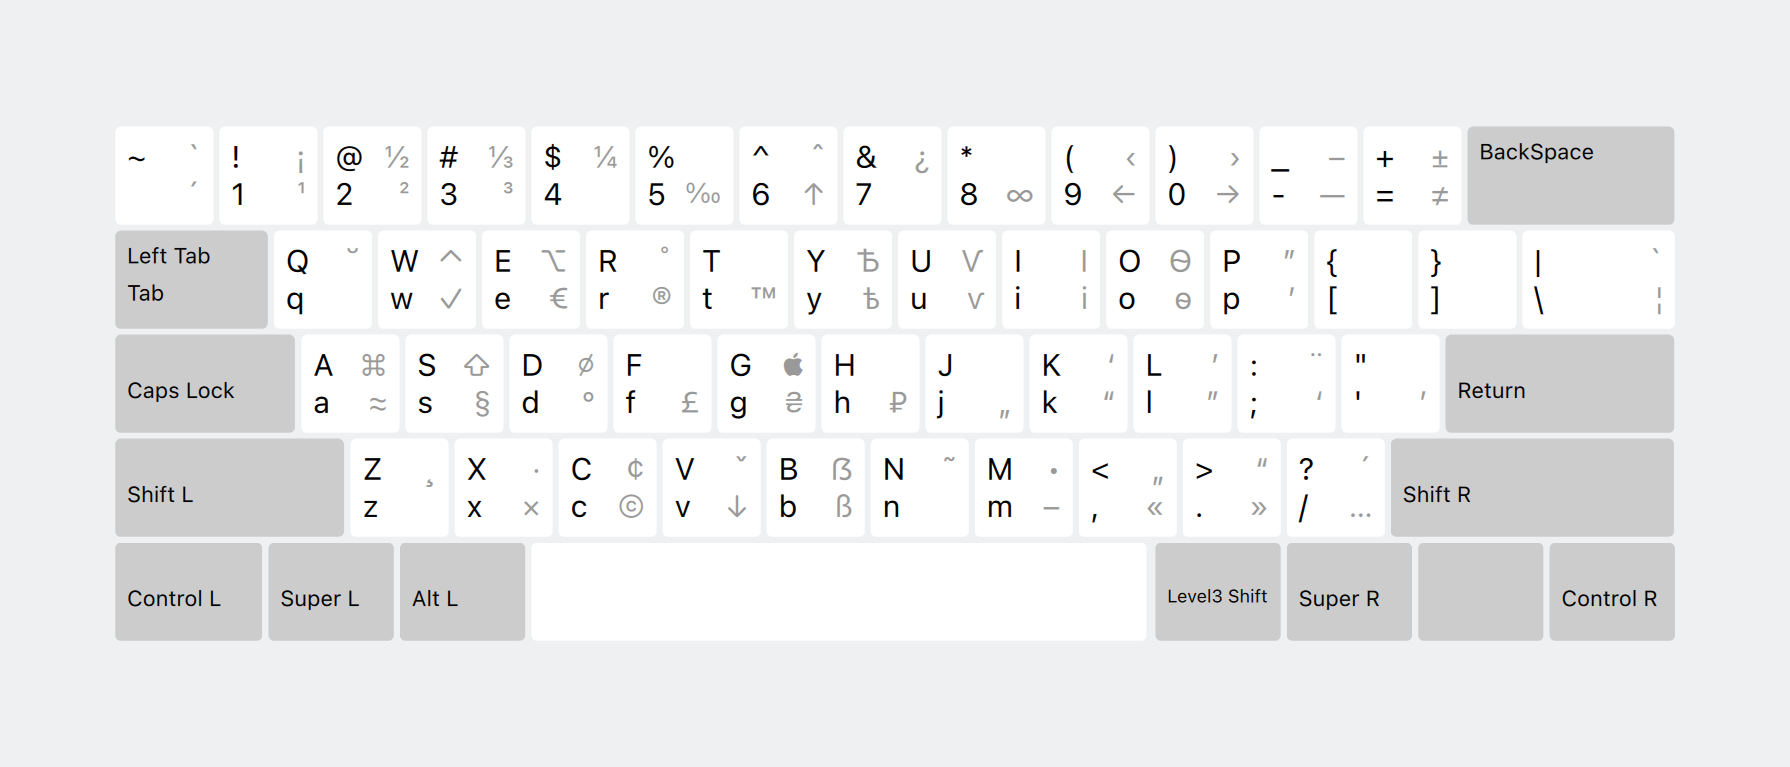
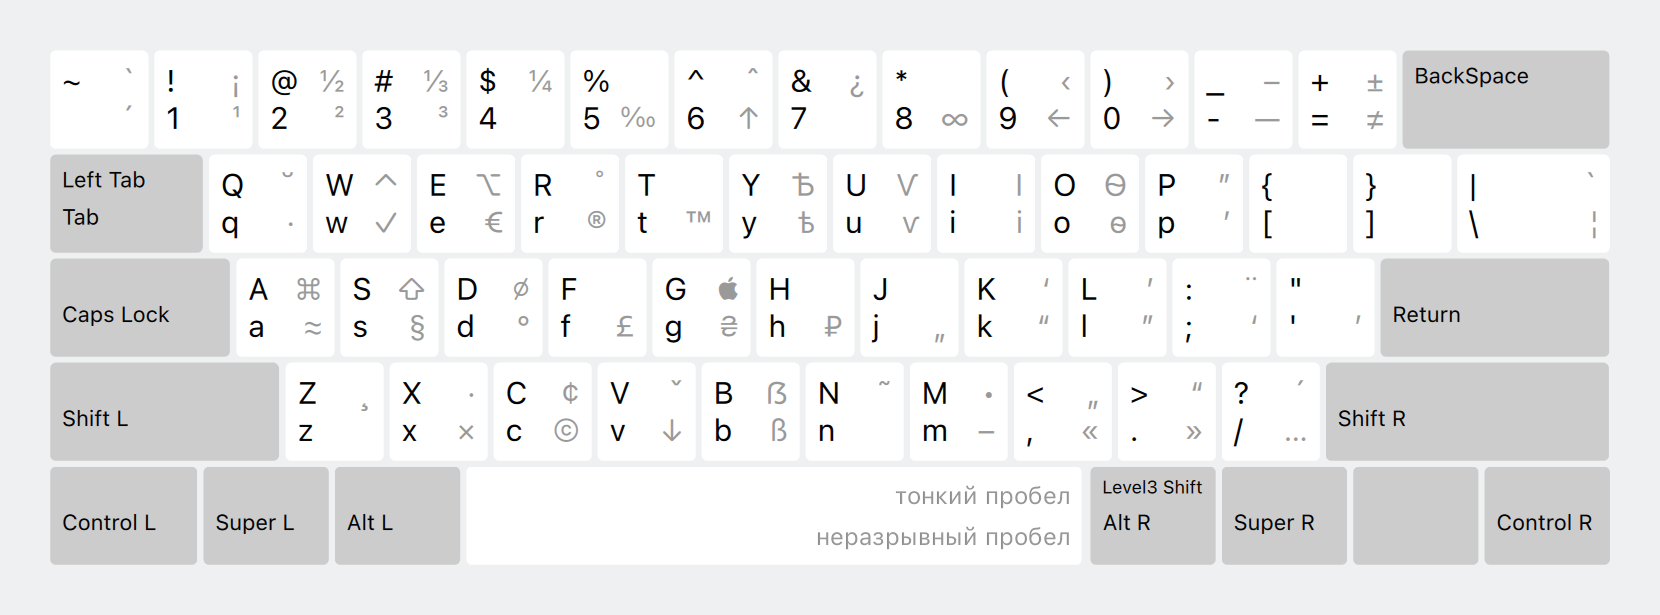
Added diff with original to readme

diff --git a/README.md b/README.md
@@ -1,5 +1,4 @@
-# Типографская раскладка Ильи Бирмана для Ubuntu
-
+# Типографская раскладка Ильи Бирмана для Linux
 Этот репозиторий содержит адаптацию русской и английской [типографской раскладки Ильи Бирмана](http://ilyabirman.ru/projects/typography-layout/) версии 3.7 для систем на базе Linux и X.org.
 
 Раскладки протестированы в KDE 6.3.3, а также в suckless dwm.
@@ -12,6 +11,13 @@
 Эта раскладка позволяет вводить полезные символы, используя правый <kbd>Alt</kbd> (называемый AltGr). Например, чтобы получить знак евро **€**, вам нужно нажать <kbd>AltGr</kbd>+<kbd>У</kbd> в русском варианте или <kbd>AltGr</kbd>+<kbd>E</kbd> в английском. Дополнительный ряд символов доступен при нажатии еще и Shift-а, например <kbd>AltGr</kbd>+<kbd>С</kbd> даст знак копирайта **©**, а <kbd>AltGr</kbd>+<kbd>Shift</kbd>+<kbd>С</kbd> даст знак цента **¢**.
 
 Как и оригинал, эта раскладка поддерживает ввод акцентов и ударений через «мёртвые клавиши», но процесс немного отличается от того, как это делается в Windows или на Маке. Например, для ввода буквы **ў**, нужно нажать и отпустить <kbd>AltGr</kbd>+<kbd>Shift</kbd>+<kbd>й</kbd>, а затем <kbd>у</kbd>.
+
+## Отличия от оригинальной раскладки Бирмана
+
+- На <kbd>Alt</kbd>+<kbd>G</kbd> вернулась гривна (₴)
+- На <kbd>Alt</kbd>+<kbd>\\</kbd> ломаная вертикальная черта (¦)
+- На <kbd>Alt</kbd>+<kbd>Q</kbd> интерпункт (·). Он отличается от знака умножения по смыслу и иногда толщиной
+- На <kbd>Shift</kbd>+<kbd>Alt</kbd>+<kbd>пробел</kbd> тонкий пробел (1/5 или 1/6 круглой шпации). В оригинале, также как и на <kbd>Alt</kbd>+<kbd>пробел</kbd>, висит неразрывный
 
 ## Установка
 
@@ -33,7 +39,7 @@
 
     Эта команда установит обе раскладки в системе под названием «Russian (Typographic by Ilya Birman)» и «English (Typographic by Ilya Birman)». В конфигурации Xorg они называются `ru(birman)` и `en(birman)`.
     
-    Включать эти раскладки, правый <kbd>Alt<kbd> и их переключение надо самостоятельно в настройках системы. Что именно надо делать — зависит от дистрибутива.
+    Включать эти раскладки, правый <kbd>Alt</kbd> и их переключение надо самостоятельно в настройках системы. Что именно надо делать — зависит от дистрибутива.
 
 4. Дождитесь зелёного сообщения об успехе. В процессе установки может потребоваться ввод пароля.
 
